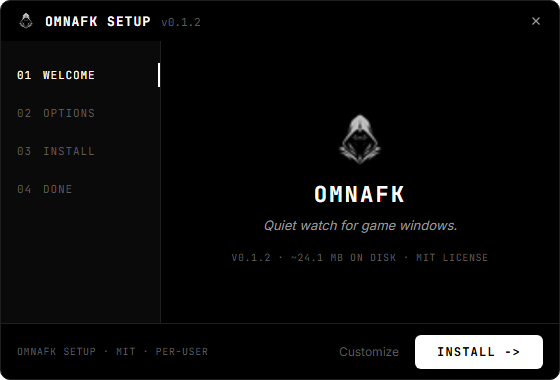
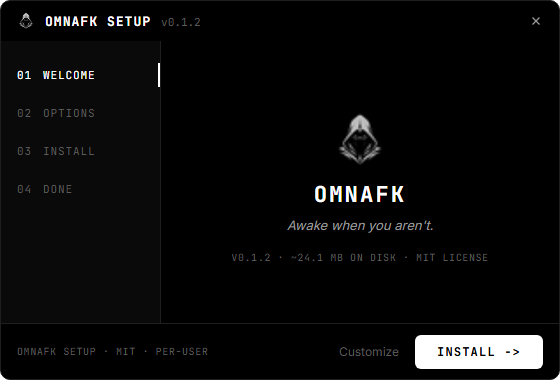
docs: restore omnafk tagline

Changed region(s): [[0.4554, 0.5789, 0.8196, 0.6368]]

diff --git a/docs/index.html b/docs/index.html
@@ -3,7 +3,7 @@
 <head>
 <meta charset="UTF-8">
 <meta name="viewport" content="width=device-width, initial-scale=1.0">
-<title>OMNAFK - Quiet watch for game windows</title>
+<title>OMNAFK - Awake when you aren't</title>
 <meta name="description" content="OMNAFK is a tray-first Windows utility with a quiet Sightline for game windows and stable GitHub updates.">
 <meta property="og:title" content="OMNAFK">
 <meta property="og:description" content="A tray-first Windows utility that marks game windows, keeps them awake quietly, and returns to dormancy.">
@@ -149,7 +149,7 @@
     </div>
     <section class="wrap hero-copy">
       <h1>OMNAFK</h1>
-      <p class="tag">Quiet watch for game windows.</p>
+      <p class="tag">Awake when you aren't.</p>
       <p class="lead">A tray-first Windows utility with a quiet Sightline: it marks game-like windows, keeps them awake when needed, and returns to dormancy when there is nothing to do.</p>
       <div class="actions">
         <a class="button primary" href="https://github.com/OMNHZN/OMNAFK/releases/latest">Download Setup</a>

diff --git a/src/setup.html b/src/setup.html
@@ -81,7 +81,7 @@
       <div class="page welcome active" data-i="0">
         <img class="mark" src="assets/sentinel-dormant.png" alt="">
         <div class="wname">OMNAFK</div>
-        <div class="wtag" id="wtag">Quiet watch for game windows.</div>
+        <div class="wtag" id="wtag">Awake when you aren't.</div>
         <div class="wmeta" id="meta">V0.1.2 · PAYLOAD · MIT LICENSE</div>
       </div>
       <div class="page" data-i="1" id="optionsPage">
@@ -136,7 +136,7 @@ function applyMode(){
   setOn($('startTgl'),state.start_with_windows!==false);
   setOn($('desktopTgl'),!!state.desktop_shortcut);
   $('headVersion').textContent='v'+state.version;
-  $('wtag').textContent=update?'Update ready.':'Quiet watch for game windows.';
+  $('wtag').textContent=update?'Update ready.':'Awake when you aren\'t.';
   $('meta').textContent=(update&&state.installed_version?'V'+state.installed_version+' -> V'+state.version:'V'+state.version)+' · '+state.payload_size+' · MIT LICENSE';
   $('doneTitle').textContent=uninstall?'REMOVED':update?'UPDATED':'INSTALLED';
   $('doneFine').textContent=uninstall?'OMNAFK has been removed from this user account.':'OMNAFK is in your tray. It wakes when a game does.';

diff --git a/src/index.html b/src/index.html
@@ -541,7 +541,7 @@
[1 lines of base64/hex data omitted]
         <span class="aname">OMNAFK</span>
         <span class="aver">v0.1.2</span>
-        <span class="adesc">Quiet watch for game windows.</span>
+        <span class="adesc">Awake when you aren't.</span>
         <div class="ameta">
           <span>SIGHTLINE MARKS TARGETS AUTOMATICALLY</span>
           <span>STABLE UPDATES · LOCAL SETTINGS</span>